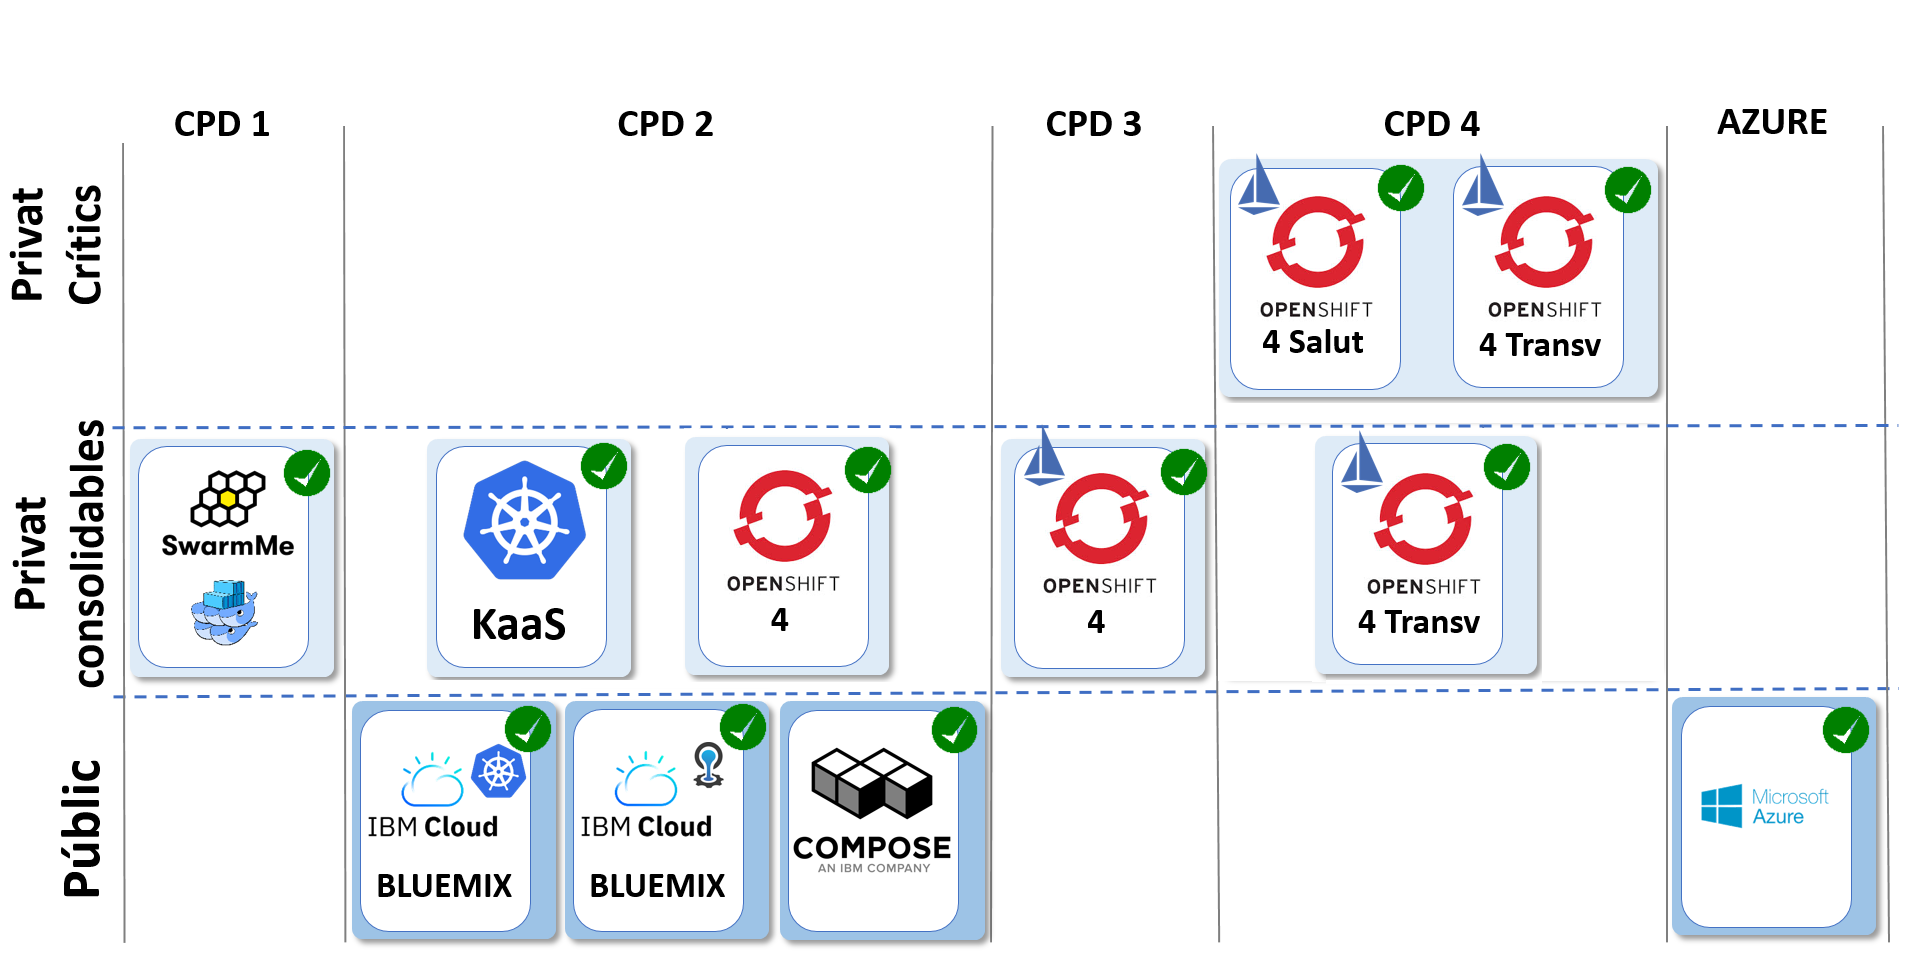
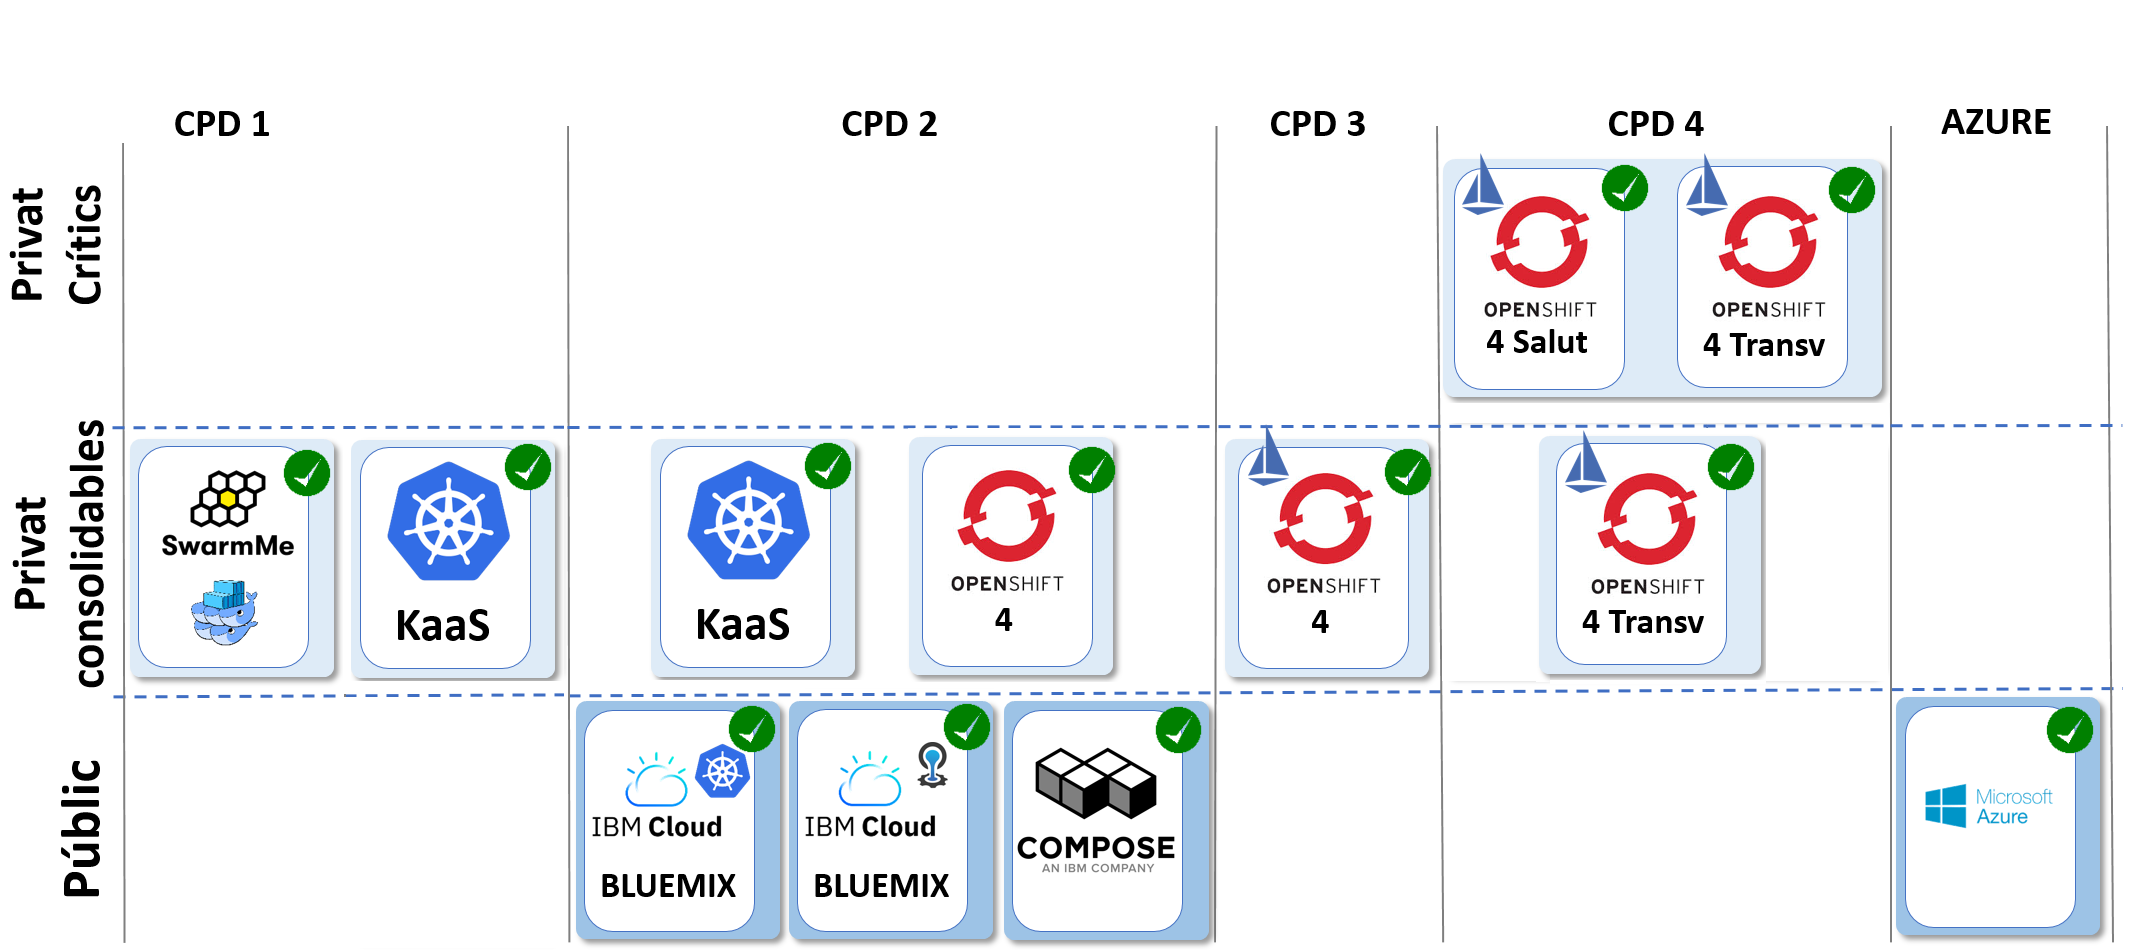
Afegim referencies a KuberMe CPD1

diff --git a/content/cloud/monitoratge-contenidors.md b/content/cloud/monitoratge-contenidors.md
@@ -1,5 +1,5 @@
 +++
-date        = "2021-09-10"
+date        = "2021-12-16"
 title       = "Monitoratge i traces als contenidors"
 description = "Informació per accedir  al monitoratge i traces a les diferents plataformes de contenidors."
 sections    = "Container Cloud"
@@ -203,7 +203,7 @@ Periòdicament, el token d'accés caduca i caldrà repetir el procés de configu
 Amb la cli de kubernetes  es poden veure els logs dels pods en temps real.
 
 
-## IBM CaaS Kubernetes
+## IBM CaaS Kubernetes i KuberMe
 
 En desplegar una aplicació a Kubernetes, es proporciona a lot d'aplicacions un token amb permisos de **lectura** del seu projecte a la plataforma Kubernetes.
 
@@ -299,9 +299,25 @@ a linux seria alguna cosa similar a
 
 ### Logs
 
-Amb la cli de kubernetes  es poden veure els logs dels pods en temps real. Si necessiteu accedir a logs anteriors o de pods que ja no existeixi, està disponible un Kibana.
+Amb la cli de kubernetes  es poden veure els logs dels pods en temps real. Si necessiteu accedir a logs anteriors o de pods que ja no existeixi, està disponible un Kibana amb tots els logs de l'aplicació amb una retenció de 30 dies.
 
-L'equip de Suport Cloud us proporcionarà l'usuari i contrasenya per poder accedir als logs.
+### Urls d'accés als diferent entorns
+
+Podeu accedir a les consoles web i Kibana de les diferents plataformes utilitzant les credencials proporcionades per l'equip de Suport Cloud
+
+#### IBM CaaS Kubernetes
+
+- **Kibana**: https://c-kibana.ams03-gct-001.cpd2pre.intranet.gencat.cat
+
+#### KuberMe PRE
+
+- **Consola web**: https://manager.kuberme.cpd1pre.intranet.gencat.cat
+- **Kibana**: https://logger.kuberme.cpd1pre.intranet.gencat.cat
+
+#### KuberMe PRO
+
+- **Consola web**: https://manager.kuberme.cpd1.intranet.gencat.cat
+- **Kibana**: https://logger.kuberme.cpd1.intranet.gencat.cat
 
 ## SwarmMe
 

diff --git a/content/cloud-caas/entorns-dev.md b/content/cloud-caas/entorns-dev.md
@@ -1,5 +1,5 @@
 +++
-date        = "2020-09-10"
+date        = "2021-12-16"
 title       = "Entorns de desenvolupament"
 description = "Entorns de desenvolupament recomanats compatibles amb les Plataformes Cloud"
 sections    = "Container Cloud"
@@ -36,9 +36,9 @@ La versió a instal·lar de Kubernetes i  Docker en entorns de desenvolupament, 
 ------------ | ------------ | ------------
 IBMCloud - Kubernetes  |  1.19.8  | v1.18 o superior
 
-## IBM CaaS
+## IBM CaaS i KuberMe
 
-En el cas de IBM CaaS:
+En el cas de IBM CaaS i KuberMe:
 
 Per les [Plataformes Cloud](http://canigo.ctti.gencat.cat/cloud/plataformes-cloud/) basades en Kubernetes, es recomana utilitzar [Minikube](https://kubernetes.io/docs/getting-started-guides/minikube/)
 
@@ -47,6 +47,7 @@ La versió a instal·lar de Kubernetes i Docker en entorns de desenvolupament, h
 **Plataforma Cloud**  | **Versió Kubernetes**   |  **Versió Minikube**
 ------------ | ------------ | ------------
 CaaS - Kubernetes  |  1.18.10  | v1.18 o superior
+KuberMe - Kubernetes  |  1.18.4  | v1.18 o superior
 
 ## SwarmMe
 

diff --git a/content/cloud-caas/contenidors_kubernetes.md b/content/cloud-caas/contenidors_kubernetes.md
@@ -1,5 +1,5 @@
 +++
-date          = "2020-06-12"
+date          = "2021-12-16"
 title         = "Contenidors Kubernetes"
 description   = "Consideracions i exemples respecte els contenidors a Kubernetes"
 sections      = "Container Cloud"
@@ -17,6 +17,7 @@ A la Generalitat de Catalunya, actualment, Kubernetes està disponible a les seg
 
 * IBMCloud al cloud públic. **Versió Kubernetes 1.19.8. Versió containerd 1.4.3**
 * IBM CaaS al cloud privat. **Versió Kubernetes 1.18.10. Versió docker 19.3.13**
+* CPD1 KuberMe al entorn consolidables. **Versió Kubernetes 1.18.4. Versió docker 19.3.13**
 
 ## Imatges
 

diff --git a/content/cloud/plataformes-cloud.md b/content/cloud/plataformes-cloud.md
@@ -1,5 +1,5 @@
 +++
-date        = "2021-09-09"
+date        = "2021-12-16"
 title       = "Plataformes Cloud"
 description = "Plataformes cloud disponibles a la Generalitat de catalunya"
 sections    = "Cloud"
@@ -47,7 +47,7 @@ Disponible a CPD1 en entorns de consolidables.
 - Contenidors docker i orquestració amb Kubernetes
 - Versió: **Kubernetes 1.18.10. Docker 18.9**
 
-Disponible a CPD2 en entorns de consolidables.
+Disponible a CPD1, CPD2 en entorns de consolidables.
 <br/><br/>
 
 ### DBaaS
